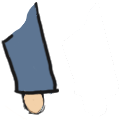
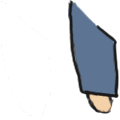
Got a good start on my inventory system.

diff --git a/public/index.html b/public/index.html
@@ -4,13 +4,12 @@
 	<script src="../bower_components/jquery/dist/jquery.min.js"></script>
 	<script src="../bower_components/phaser-ce/build/phaser.min.js"></script>
 
-	<script type="../utils.js"></script>
 	<script src="../classes/animation.js"></script>
 	<script src="../classes/environment.js"></script>
 	<script src="../classes/input.js"></script>
 	<script src="../classes/mediaLibrary.js"></script>
 	<script src="../classes/player.js"></script>
-	<script src="../classes/time.js"></script>
+	<script src="../js/utils.js"></script>
 	<script src="../js/app.js"></script>
 </head>
 <body>
@@ -26,11 +25,41 @@
 				</div>
 				<div><h5>Equipment</h5></div>
 				<div>
-					 <select id='full'>
-					 	<option selected="selected" value="default">Character</option>
+					 <select id='head'>
+					 	<option selected="selected" value="default">Head</option>
 					 	<option value="char1Head">Human1</option>
 					 	<option value="char2Head">Human2</option>
-					 </select><br><br>
+					 </select><br>
+					 <select id='chest'>
+					 	<option selected="selected" value="default">Chest</option>
+					 	<option value="char1Chest">Human1</option>
+					 	<option value="char2Chest">Human2</option>
+					 </select><br>
+					 <select id='pelvis'>
+					 	<option selected="selected" value="default">Pelvis</option>
+					 	<option value="char1Pelvis">Human1</option>
+					 	<option value="char2Pelvis">Human2</option>
+					 </select><br>
+					 <select id='right arm'>
+					 	<option selected="selected" value="default">Right Arm</option>
+					 	<option value="char1ArmR">Human1</option>
+					 	<option value="char2ArmR">Human2</option>
+					 </select><br>
+					 <select id='left arm'>
+					 	<option selected="selected" value="default">Left Arm</option>
+					 	<option value="char1ArmL">Human1</option>
+					 	<option value="char2ArmL">Human2</option>
+					 </select><br>
+					 <select id='left leg'>
+					 	<option selected="selected" value="default">Right Leg</option>
+					 	<option value="char1LegR">Human1</option>
+					 	<option value="char2LegR">Human2</option>
+					 </select><br>
+					 <select id='right leg'>
+					 	<option selected="selected" value="default">Left Leg</option>
+					 	<option value="char1LegL">Human1</option>
+					 	<option value="char2LegL">Human2</option>
+					 </select><br>
 				</div>
 				<div>
 					<img id='display' src="../imgs/char1Full.png">

diff --git a/js/utils.js b/js/utils.js
@@ -6,3 +6,41 @@ function random(max, min) {
 function strncmp(first, second, length) {
 	return first.substring(0, length) == second.substring(0, length);
 }
+
+function addListeners() {
+	listener('head');
+	listener('chest');
+	listener('right arm');
+	listener('left arm');
+	listener('pelvis');
+	listener('right leg');
+	listener('left leg');
+}
+
+function listener(bodypart) {
+	var element = {};
+
+	element.char = document.getElementById(bodypart).value;
+	element.event = document.getElementById(bodypart);
+	element.change = document.getElementById("display");
+	element.event.addEventListener('change', function() {
+		console.log(this.value);
+		if (this.value != 'default') {
+			element.change.src = "../imgs/" + this.value + ".png";
+			if (bodypart == 'head')
+				avatar.characterHead.loadTexture(this.value);
+			else if (bodypart == 'chest')
+				avatar.characterChest.loadTexture(this.value);
+			else if (bodypart == 'right arm')
+				avatar.characterArm1.loadTexture(this.value);
+			else if (bodypart == 'left arm')
+				avatar.characterArm2.loadTexture(this.value);
+			else if (bodypart == 'pelvis')
+				avatar.characterPelvis.loadTexture(this.value);
+			else if (bodypart == 'right leg')
+				avatar.characterLeg1.loadTexture(this.value);
+			else if (bodypart == 'left leg')
+				avatar.characterLeg2.loadTexture(this.value);
+		}
+	}, false);
+}

diff --git a/js/app.js b/js/app.js
@@ -1,9 +1,6 @@
 var game = new Phaser.Game(600, 400, Phaser.CANVAS, 'canvas', { preload: preload, create: create, update: update });
 var data;
 
-var test;
-
-
 function preload() {
 	data = new mediaLibrary();
 }
@@ -17,31 +14,10 @@ function create() {
 	avatar = new player('wobula');
 	controls = new input(avatar);
 	data.addSounds();
-	test = getDataHTML();
+	addListeners()
 }
 
 function update() {
 	controls.processor();
 	game.physics.arcade.collide(env.floor, avatar.character);
-}
-
-function getDataHTML() {
-	var blah = {};
-	var blah2;
-
-	blah.char = document.getElementById("full").value;
-	blah.event = document.getElementById("full");
-	blah.change = document.getElementById("display");
-	console.log(blah.change);
-	blah.event.addEventListener('change', function() {
-		console.log(this.value);
-		if (this.value != 'default') {
-			blah.change.src = "../imgs/" + this.value + ".png";
-			console.log(this.value);
-			avatar.characterHead.loadTexture(this.value);
-			console.log(blah.change.src);
-			console.log(avatar.characterHead.key);
-		}
-	}, false);
-	return (blah);
 }

diff --git a/classes/player.js b/classes/player.js
@@ -21,10 +21,10 @@ class player {
 		this.characterArm1 = game.add.sprite(-10, -175, 'char1ArmR');
 		this.characterArm1.scale.setTo(.3, .3);
 		this.characterArm1.anchor.setTo(1, 0);
-		this.characterLeg1 = game.add.sprite(10, -140, 'char1LegR');
+		this.characterLeg1 = game.add.sprite(10, -140, 'char1LegL');
 		this.characterLeg1.scale.setTo(.5, .5);
 		this.characterLeg1.anchor.setTo(1, 0);
-		this.characterLeg2 = game.add.sprite(10, -140, 'char1LegL');
+		this.characterLeg2 = game.add.sprite(10, -140, 'char1LegR');
 		this.characterLeg2.scale.setTo(.5, .5);
 		this.characterLeg2.anchor.setTo(0, 0);
 		this.characterPelvis = game.add.sprite(5, -130, 'char1Pelvis');

diff --git a/classes/mediaLibrary.js b/classes/mediaLibrary.js
@@ -48,7 +48,7 @@ class mediaLibrary {
 		this.char2Full = (game.load.image('char2Full', 'imgs/char2Full.png'));
 		this.char2Head = (game.load.image('char2Head', 'imgs/char2Head.png'));
 		this.char2Chest = (game.load.image('char2Chest', 'imgs/char2Chest.png'));
-		this.char2Pelvis = (game.load.image('char2Torso', 'imgs/char2Pelvis.png'));
+		this.char2Pelvis = (game.load.image('char2Pelvis', 'imgs/char2Pelvis.png'));
 		this.char2ArmL = (game.load.image('char2ArmL', 'imgs/char2ArmL.png'));
 		this.char2ArmR = (game.load.image('char2ArmR', 'imgs/char2ArmR.png'));
 		this.char2LegL = (game.load.image('char2LegL', 'imgs/char2LegL.png'));
